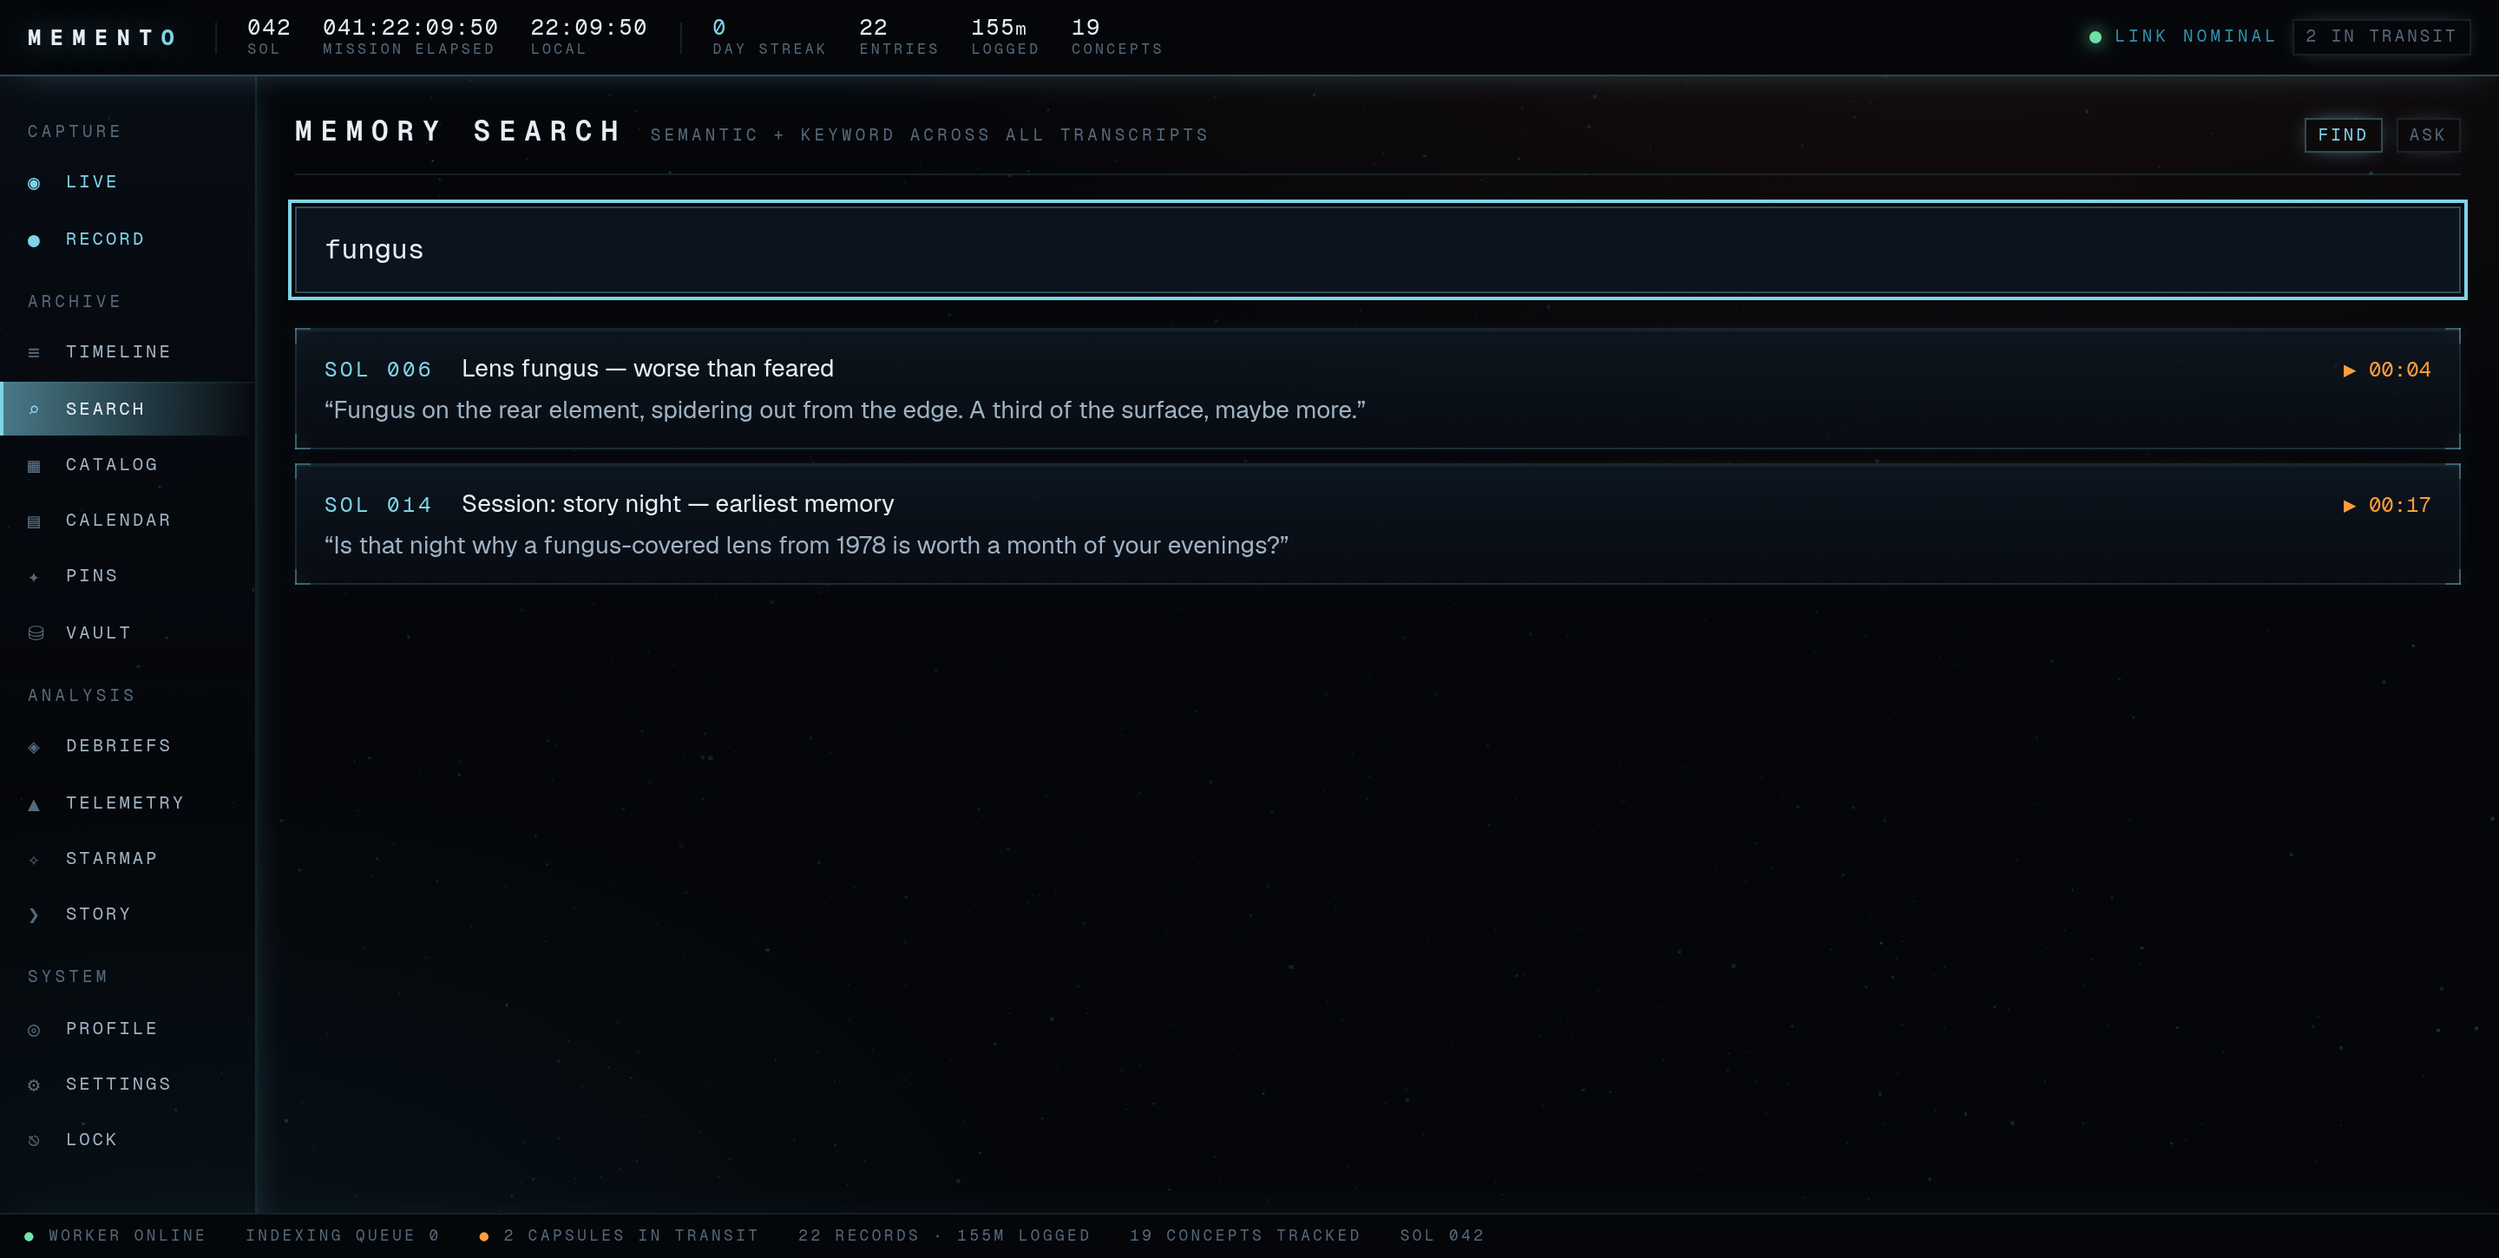
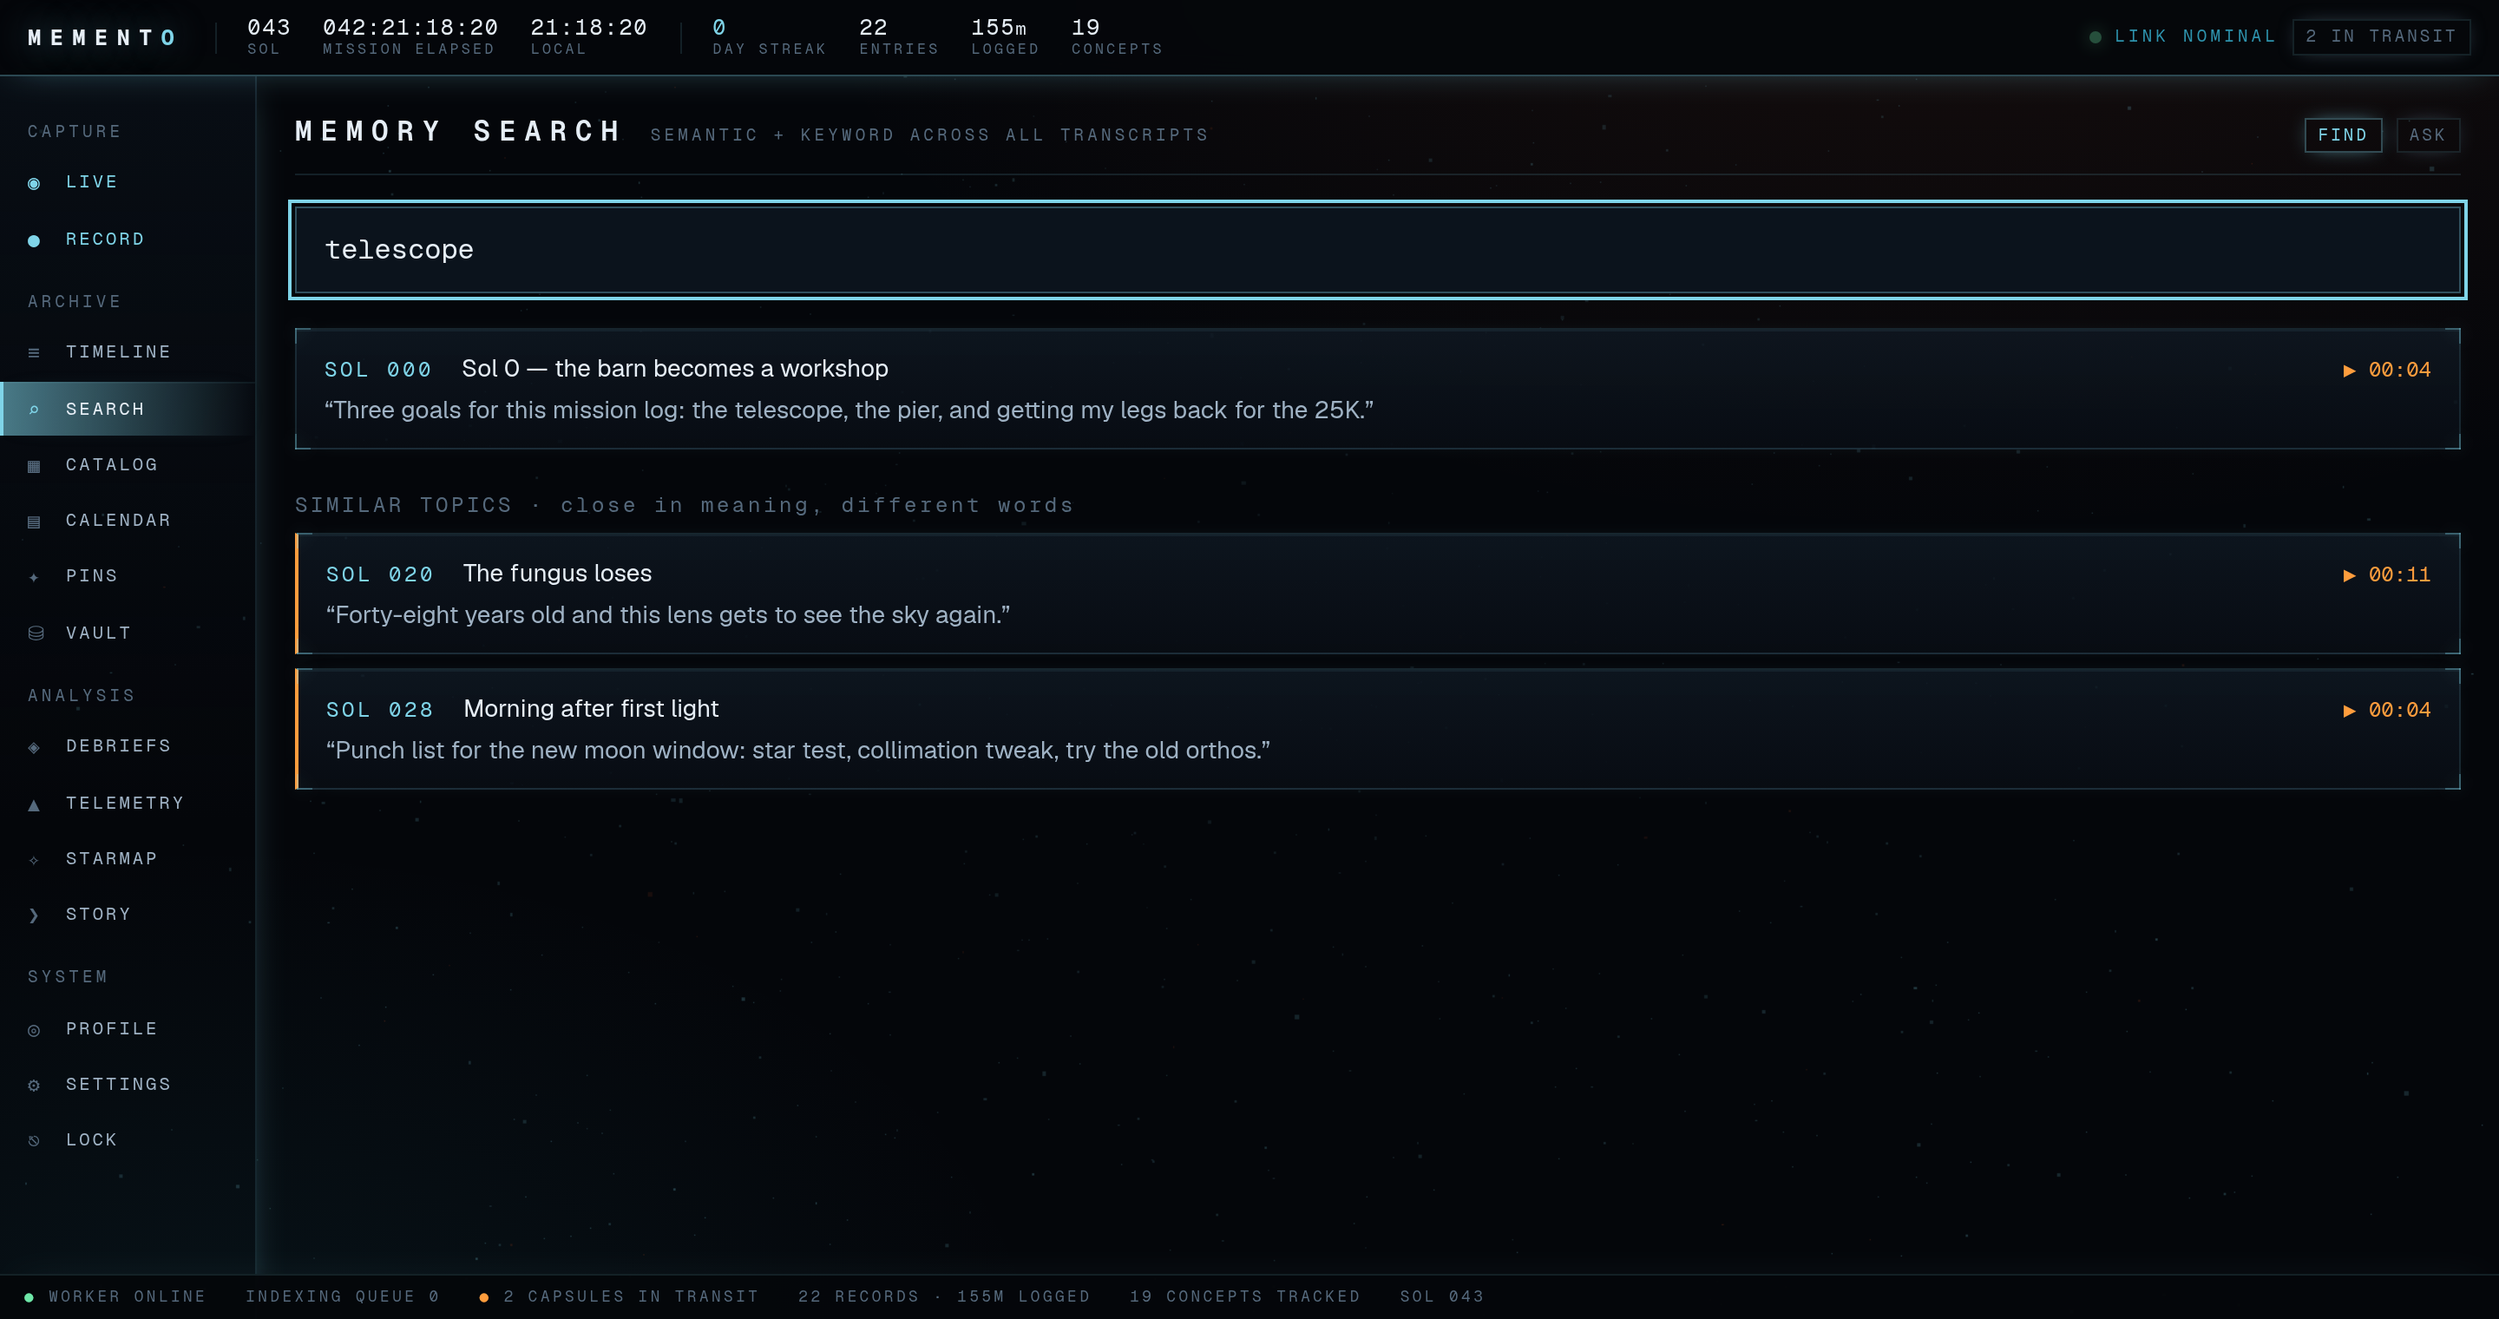
Fix search returning unrelated moments; split matches from similar topics
Searching a word the log never recorded returned a screenful of unrelated
entries. Two causes, both in hybridSearch:

1. The nearest-neighbour query had no distance ceiling, so it always
   returned its full LIMIT however far away the rows were. Querying "dog"
   against a journal with no dog content still produced 20 segments.
2. Reciprocal-rank fusion then gave a rank-0 semantic guess (1/60) a
   higher score than a rank-1 literal match (1/61), so exact terms could
   be pushed below moments that never used the word.

Results now come back as two groups instead of one fused list:

- matches — segments that actually contain the terms, ranked by ts_rank
  and always first.
- related — semantic neighbours within SEARCH_RELATED_MAX_DIST (default
  0.45 cosine), deduped to one per entry, excluding entries already
  shown, surfaced in the UI as "Similar topics" with a source link to
  the exact second.

hybridSearch still exposes `hits` (matches then related), so /api/ask and
the agent's search_journal tool keep working — and both now get cleaner
retrieval context, since the junk was reaching the LLM too.

Threshold calibrated against nomic-embed-text on a 90-segment corpus:
true topical neighbours land at 0.31-0.47, queries with no matching
content bottom out at ~0.48. Verified end to end: "dog", "taxes", "scuba
diving" and "my dentist appointment" now return nothing rather than
filler, while "telescope", "running" and "sourdough bread" still resolve.

diff --git a/web/src/lib/search.ts b/web/src/lib/search.ts
@@ -3,6 +3,18 @@ import { db, USER_ID } from "@/lib/db";
 const OLLAMA_URL = process.env.OLLAMA_URL ?? "http://localhost:11434";
 const EMBED_MODEL = process.env.EMBED_MODEL ?? "nomic-embed-text";
 
+/** Cosine-distance ceiling for a segment to count as a *related* topic.
+ *
+ *  Without a ceiling the nearest-neighbour query always returns its LIMIT
+ *  worth of rows, however far away they are — so searching a word the log
+ *  has never heard still returned a screenful of unrelated moments. Measured
+ *  against nomic-embed-text: genuine topical neighbours land around
+ *  0.31–0.47, while queries with no matching content bottom out at ~0.48.
+ *  0.45 sits inside that gap. (worker.py uses a stricter 0.35 for
+ *  near-duplicate profile facts — a different, tighter question.) */
+const RELATED_MAX_DIST = Number(process.env.SEARCH_RELATED_MAX_DIST ?? 0.45);
+const RELATED_LIMIT = 8;
+
 export type Hit = {
   entry_id: string;
   idx: number;
@@ -12,7 +24,28 @@ export type Hit = {
   sol: number;
   kind: string;
   recorded_at: string;
+  /** Lexical rank — present on `matches`. */
   score?: number;
+  /** Cosine distance from the query — present on `related`. */
+  distance?: number;
+};
+
+export type SearchResult = {
+  /** matches followed by related: the retrieval view, for Ask and the agent tool. */
+  hits: Hit[];
+  /** Segments that actually contain the search terms. */
+  matches: Hit[];
+  /** Semantically near segments that do *not* contain the terms, one per entry. */
+  related: Hit[];
+  /** True when the embedding model was unreachable — `related` will be empty. */
+  degraded: boolean;
+};
+
+const EMPTY: SearchResult = {
+  hits: [],
+  matches: [],
+  related: [],
+  degraded: false,
 };
 
 async function embedQuery(q: string): Promise<number[] | null> {
@@ -31,60 +64,75 @@ async function embedQuery(q: string): Promise<number[] | null> {
   }
 }
 
-/** Hybrid semantic + keyword search with reciprocal-rank fusion. */
-export async function hybridSearch(
-  q: string
-): Promise<{ hits: Hit[]; degraded: boolean }> {
-  if (q.trim().length < 2) return { hits: [], degraded: false };
-  const vec = await embedQuery(q);
+/** Search the log, keeping literal matches and semantic neighbours apart.
+ *
+ *  Fusing the two lists (the previous behaviour) let a top-ranked semantic
+ *  guess outscore a real word match, so an exact term could be pushed under
+ *  moments that never used it. Lexical hits are authoritative and come first;
+ *  everything merely *near* the query is reported separately as related. */
+export async function hybridSearch(q: string): Promise<SearchResult> {
+  const query = q.trim();
+  if (query.length < 2) return EMPTY;
 
-  const [vecHits, ftsHits] = await Promise.all([
-    vec
-      ? db
-          .query<Hit>(
-            `SELECT s.entry_id, s.idx, s.t_start, s.text,
-                    e.title, e.sol, e.kind, e.recorded_at
-             FROM segments s
-             JOIN entries e ON e.id = s.entry_id
-             WHERE e.user_id = $1 AND e.deleted_at IS NULL
-               AND s.embedding IS NOT NULL
-             ORDER BY s.embedding <=> $2::vector
-             LIMIT 20`,
-            [USER_ID, JSON.stringify(vec)]
-          )
-          .then((r) => r.rows)
-      : Promise.resolve([] as Hit[]),
+  const vec = await embedQuery(query);
+
+  const [lexRows, vecRows] = await Promise.all([
     db
       .query<Hit>(
         `SELECT s.entry_id, s.idx, s.t_start, s.text,
-                e.title, e.sol, e.kind, e.recorded_at
+                e.title, e.sol, e.kind, e.recorded_at,
+                ts_rank(s.ts, websearch_to_tsquery('english', $2)) AS score
          FROM segments s
          JOIN entries e ON e.id = s.entry_id
          WHERE e.user_id = $1 AND e.deleted_at IS NULL
            AND s.ts @@ websearch_to_tsquery('english', $2)
-         ORDER BY ts_rank(s.ts, websearch_to_tsquery('english', $2)) DESC
+         ORDER BY score DESC, s.t_start ASC
          LIMIT 20`,
-        [USER_ID, q]
+        [USER_ID, query]
       )
       .then((r) => r.rows),
+    vec
+      ? db
+          .query<Hit>(
+            `SELECT s.entry_id, s.idx, s.t_start, s.text,
+                    e.title, e.sol, e.kind, e.recorded_at,
+                    (s.embedding <=> $2::vector) AS distance
+             FROM segments s
+             JOIN entries e ON e.id = s.entry_id
+             WHERE e.user_id = $1 AND e.deleted_at IS NULL
+               AND s.embedding IS NOT NULL
+               AND (s.embedding <=> $2::vector) <= $3
+             ORDER BY s.embedding <=> $2::vector
+             LIMIT 40`,
+            [USER_ID, JSON.stringify(vec), RELATED_MAX_DIST]
+          )
+          .then((r) => r.rows)
+      : Promise.resolve([] as Hit[]),
   ]);
 
-  const scored = new Map<string, { hit: Hit; score: number }>();
-  for (const list of [vecHits, ftsHits]) {
-    list.forEach((hit, rank) => {
-      const key = `${hit.entry_id}:${hit.idx}`;
-      const prev = scored.get(key);
-      scored.set(key, {
-        hit,
-        score: (prev?.score ?? 0) + 1 / (60 + rank),
-      });
-    });
+  const matches = lexRows.map((h) => ({
+    ...h,
+    score: Number(Number(h.score ?? 0).toFixed(5)),
+  }));
+
+  // A segment already shown as a match, or any other moment from an entry
+  // that is already on screen, would just be noise under "related".
+  const matchedSegments = new Set(matches.map((h) => `${h.entry_id}:${h.idx}`));
+  const shownEntries = new Set(matches.map((h) => h.entry_id));
+
+  const related: Hit[] = [];
+  for (const h of vecRows) {
+    if (related.length >= RELATED_LIMIT) break;
+    if (matchedSegments.has(`${h.entry_id}:${h.idx}`)) continue;
+    if (shownEntries.has(h.entry_id)) continue;
+    shownEntries.add(h.entry_id);
+    related.push({ ...h, distance: Number(Number(h.distance).toFixed(3)) });
   }
 
-  const hits = [...scored.values()]
-    .sort((a, b) => b.score - a.score)
-    .slice(0, 20)
-    .map(({ hit, score }) => ({ ...hit, score: Number(score.toFixed(5)) }));
-
-  return { hits, degraded: !vec };
+  return {
+    hits: [...matches, ...related].slice(0, 20),
+    matches,
+    related,
+    degraded: !vec,
+  };
 }

diff --git a/web/src/app/search/page.tsx b/web/src/app/search/page.tsx
@@ -12,12 +12,42 @@ type Hit = {
   sol: number;
   kind: string;
   recorded_at: string;
+  distance?: number;
 };
 
 function fmtTime(s: number) {
   const m = Math.floor(s / 60);
   const ss = Math.floor(s % 60);
   return `${String(m).padStart(2, "0")}:${String(ss).padStart(2, "0")}`;
+}
+
+/** One result, linked to the exact second it was said. */
+function ResultRow({ hit: h, related }: { hit: Hit; related?: boolean }) {
+  return (
+    <Link
+      href={`/entry/${h.entry_id}?t=${Math.max(0, Math.floor(h.t_start))}`}
+      className="panel block px-4 py-3 transition-colors hover:border-[var(--line)]"
+      style={related ? { borderLeft: "2px solid var(--cyan)" } : undefined}
+    >
+      <span className="flex flex-wrap items-baseline gap-x-4 gap-y-1">
+        <span
+          className="mono text-xs"
+          style={{ color: "var(--amber)", letterSpacing: ".15em" }}
+        >
+          SOL {String(h.sol).padStart(3, "0")}
+        </span>
+        <span className="text-sm" style={{ color: "var(--text-bright)" }}>
+          {h.title ?? "Untitled entry"}
+        </span>
+        <span className="mono ml-auto text-xs" style={{ color: "var(--cyan)" }}>
+          ▶ {fmtTime(h.t_start)}
+        </span>
+      </span>
+      <p className="mt-1 text-sm" style={{ color: "var(--text)" }}>
+        “{h.text}”
+      </p>
+    </Link>
+  );
 }
 
 type Source = {
@@ -31,7 +61,8 @@ type Source = {
 
 export default function SearchPage() {
   const [q, setQ] = useState("");
-  const [hits, setHits] = useState<Hit[]>([]);
+  const [matches, setMatches] = useState<Hit[]>([]);
+  const [related, setRelated] = useState<Hit[]>([]);
   const [degraded, setDegraded] = useState(false);
   const [searching, setSearching] = useState(false);
   const [searched, setSearched] = useState(false);
@@ -68,7 +99,8 @@ export default function SearchPage() {
     if (mode !== "find") return;
     if (debounce.current) clearTimeout(debounce.current);
     if (q.trim().length < 2) {
-      setHits([]);
+      setMatches([]);
+      setRelated([]);
       setSearched(false);
       return;
     }
@@ -77,7 +109,8 @@ export default function SearchPage() {
       try {
         const res = await fetch(`/api/search?q=${encodeURIComponent(q)}`);
         const data = await res.json();
-        setHits(data.hits);
+        setMatches(data.matches ?? []);
+        setRelated(data.related ?? []);
         setDegraded(data.degraded);
         setSearched(true);
       } finally {
@@ -165,31 +198,30 @@ export default function SearchPage() {
             Semantic search offline (Ollama unreachable) — keyword results only.
           </span>
         )}
-        {searched && !searching && hits.length === 0 && (
+        {searched && !searching && matches.length === 0 && related.length === 0 && (
           <span className="label">No matches on record.</span>
         )}
-        {hits.map((h) => (
-          <Link
-            key={`${h.entry_id}:${h.idx}`}
-            href={`/entry/${h.entry_id}?t=${Math.max(0, Math.floor(h.t_start))}`}
-            className="panel block px-4 py-3 transition-colors hover:border-[var(--line)]"
-          >
-            <span className="flex flex-wrap items-baseline gap-x-4 gap-y-1">
-              <span className="mono text-xs" style={{ color: "var(--amber)", letterSpacing: ".15em" }}>
-                SOL {String(h.sol).padStart(3, "0")}
-              </span>
-              <span className="text-sm" style={{ color: "var(--text-bright)" }}>
-                {h.title ?? "Untitled entry"}
-              </span>
-              <span className="mono ml-auto text-xs" style={{ color: "var(--cyan)" }}>
-                ▶ {fmtTime(h.t_start)}
-              </span>
-            </span>
-            <p className="mt-1 text-sm" style={{ color: "var(--text)" }}>
-              “{h.text}”
-            </p>
-          </Link>
+
+        {matches.map((h) => (
+          <ResultRow key={`m:${h.entry_id}:${h.idx}`} hit={h} />
         ))}
+
+        {searched && !searching && related.length > 0 && (
+          <>
+            <span
+              className="mono mt-4 text-xs"
+              style={{ color: "var(--dim)", letterSpacing: ".15em" }}
+            >
+              SIMILAR TOPICS ·{" "}
+              {matches.length === 0
+                ? "nothing in the log uses that word — closest in meaning"
+                : "close in meaning, different words"}
+            </span>
+            {related.map((h) => (
+              <ResultRow key={`r:${h.entry_id}:${h.idx}`} hit={h} related />
+            ))}
+          </>
+        )}
       </div>
     </div>
   );

diff --git a/README.md b/README.md
@@ -52,8 +52,9 @@ conversation mode, and presence surface are all switchable before you start.
 
 ![Live console](assets/screenshots/live.png)
 
-**Memory search** — hybrid semantic + keyword retrieval across every
-transcript; each hit deep-links to the exact second it was said.
+**Memory search** — literal matches first, then *similar topics* that are close
+in meaning but never used the word. Every hit deep-links to the exact second it
+was said.
 
 ![Memory search](assets/screenshots/search.png)
 
@@ -214,6 +215,8 @@ template). Highlights:
 | `WHISPER_MODEL` / `WHISPER_DEVICE` / `WHISPER_COMPUTE` | Transcription model and placement |
 | `OLLAMA_URL` / `OLLAMA_MODEL` | Local text model (default `qwen2.5:7b`) |
 | `VISION_MODEL` | Local VLM for the visual log (qwen2.5-VL) |
+| `EMBED_MODEL` | Embedding model for search (default `nomic-embed-text`) |
+| `SEARCH_RELATED_MAX_DIST` | Cosine-distance ceiling for "similar topics" (default `0.45`; lower is stricter) |
 | `OPENAI_API_KEY` | Optional — enables live voice sessions and TTS narration |
 | `OPENAI_REALTIME_MODEL` / `REALTIME_VOICE` | Defaults `gpt-realtime` / `marin` |
 | `TTS_VOICE` | Overrides the recap narrator voice |
@@ -290,10 +293,20 @@ the nightly log warns.
 
 ### Search, Ask, and the catalog
 
-- **/search** — hybrid retrieval: semantic (nomic-embed-text via Ollama,
-  pgvector HNSW) fused with keyword (Postgres FTS) by reciprocal rank. Results
-  deep-link to the exact second (`/entry/:id?t=`). Degrades to keyword-only if
-  Ollama is down.
+- **/search** — results come back in two clearly separated groups, because
+  "contains this word" and "is about this idea" are different questions:
+  - **Matches** — segments that actually contain your terms (Postgres FTS,
+    ranked by `ts_rank`). Authoritative, and always listed first.
+  - **Similar topics** — segments that are semantically near the query but
+    never used the word (nomic-embed-text via Ollama, pgvector HNSW cosine),
+    one per entry so a single video can't flood the list.
+
+  Every result deep-links to the exact second (`/entry/:id?t=`). Semantic
+  neighbours must fall within `SEARCH_RELATED_MAX_DIST` (default `0.45` cosine
+  distance) — without that ceiling a nearest-neighbour query always returns its
+  full limit no matter how unrelated, so searching a word the log has never
+  heard would fill the screen with strangers. If Ollama is unreachable the
+  similar-topics group is simply empty and matches still work.
 - **Find ⇄ Ask** — Ask runs the question through the same retrieval plus the
   local LLM and answers in your journal's own words, citing `[n]` sources that
   each jump to the moment they came from. Fully local, no API cost.
